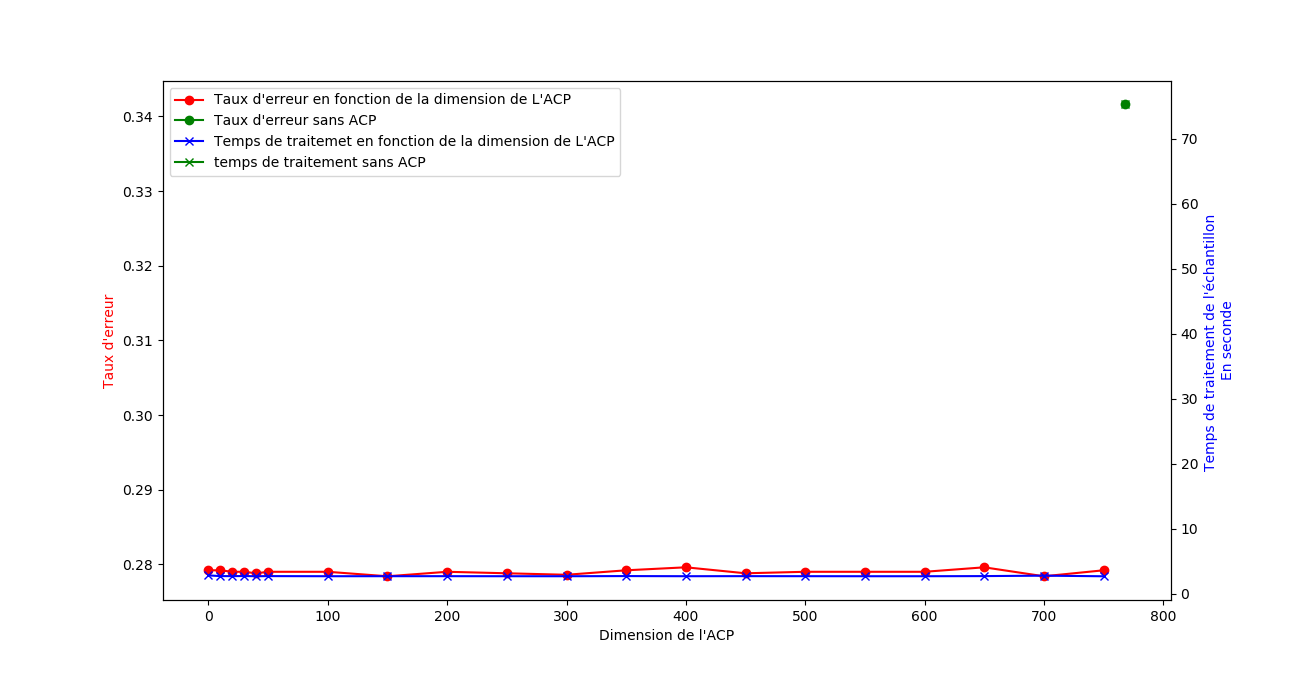
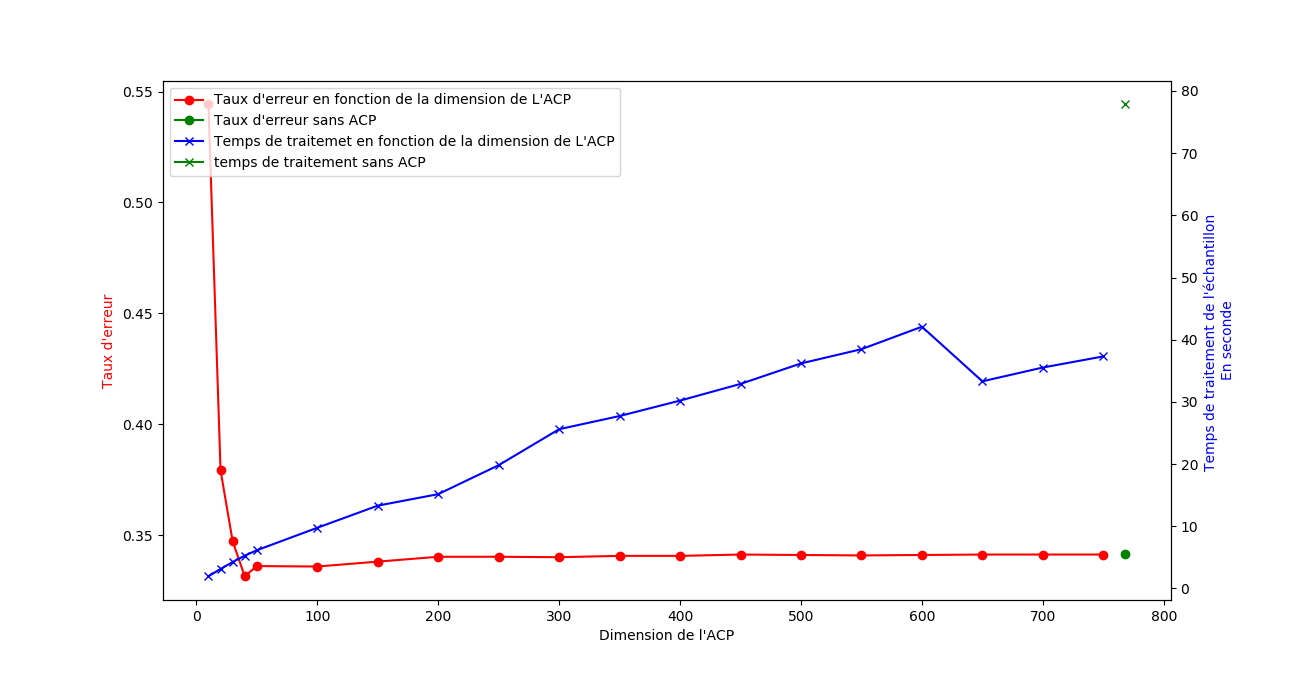
Correction question 3/2 + ajout conclusion et fichier test.npy

diff --git a/Sources/main.py b/Sources/main.py
@@ -5,6 +5,7 @@ from sklearn.decomposition import PCA
 from sklearn.svm import SVC
 from sklearn.neighbors import KNeighborsClassifier
 from sklearn import preprocessing
+from sklearn.metrics import confusion_matrix
 
 
 """ Question 1 """
@@ -142,22 +143,27 @@ def Question3_A(Xapp, Yapp, Xdev, Ydev):
 
     teList = []
     timeList = []
-    sizeList = [i for i in range(0,50,10)]+[i for i in range(50,Xapp.shape[1],50)]
+    sizeList = [i for i in range(40,50,10)]+[i for i in range(50,Xapp.shape[1],50)]
 
     for size in sizeList:
         start_time = time()
-        #Scaling des données pour le SVM
-        pca = PCA(50)
-        pca.fit(Xapp)
-        XappPCA = pca.transform(Xapp)
-        #Scaling des données pour le SVM
-        X = preprocessing.scale(pca.transform(Xdev))
-        Y = Ydev
         print("Taille de l'échantillon : ", X.shape[0])
         print("Classifieur Support Vector Machines, ACP de taille ",size)
 
+        pca = PCA(size)
+        pca.fit(Xapp)
+        print("ICI 1, ", time() - start_time)
+        #Scaling des données pour le SVM
+        XappPCA = preprocessing.scale(pca.transform(Xapp))        
+        print("ICI 2, ", time() - start_time)
+        #Scaling des données pour le SVM
+        X = preprocessing.scale(pca.transform(Xdev))
+        print("ICI 3, ", time() - start_time)
+        Y = Ydev
         clf = SVC(C=100000000,cache_size=4000)
-        clf.fit(preprocessing.scale(XappPCA), Yapp) 
+        print("ICI 4, ", time() - start_time)
+        clf.fit(XappPCA, Yapp)
+        print("ICI 5, ", time() - start_time)
 
         print("START")
         erreur = 0
@@ -224,12 +230,12 @@ def Question3_B(Xapp, Yapp, Xdev, Ydev):
 
     teList = []
     timeList = []
-    sizeList = [i for i in range(0,50,10)]+[i for i in range(50,Xapp.shape[1],50)]
+    sizeList = [i for i in range(10,50,10)]+[i for i in range(50,Xapp.shape[1],50)]
 
     for size in sizeList:
         start_time = time()
 
-        pca = PCA(50)
+        pca = PCA(size)
         pca.fit(Xapp)        
         XappPCA = pca.transform(Xapp)
 
@@ -239,7 +245,7 @@ def Question3_B(Xapp, Yapp, Xdev, Ydev):
         print("Classifieur plus proches voisins, ACP de taille ",size)
 
         neigh = KNeighborsClassifier(n_jobs=-1)
-        neigh.fit(X,Y) 
+        neigh.fit(XappPCA,Yapp) 
 
         print("START")
         erreur = 0
@@ -278,7 +284,7 @@ def Question3_B(Xapp, Yapp, Xdev, Ydev):
     fig.savefig("question3_B.png")
 
 
-""" Main :P """
+##################################### Main :P #####################################
 
 Xapp = np.load('../data/trn_img.npy')
 Yapp = np.load('../data/trn_lbl.npy')
@@ -290,5 +296,54 @@ Xtest = np.load('../data/tst_img.npy')
 
 #Question1_2(Xapp, Yapp, Xdev, Ydev)
 #Question3_A(Xapp, Yapp, Xdev, Ydev)
-Question3_B(Xapp, Yapp, Xdev, Ydev)
+#Question3_B(Xapp, Yapp, Xdev, Ydev)
 
+
+### Conclusion ###
+
+
+start_time = time()
+print("Classifieur Bayésien ACP de taille 50 sur le jeux de développement")
+pca = PCA(50)
+pca.fit(Xapp)
+XappPCA = pca.transform(Xapp)
+X = pca.transform(Xdev)
+Y = Ydev
+appArrayPCA = Apprentissage(XappPCA,Yapp)
+
+print("START")
+erreur = 0
+result = []
+
+for i in range(0,X.shape[0]):
+    result.append(BayesEvaluation(X[i], appArrayPCA))
+    if(result[i] != Y[i]):
+        erreur+=1
+ti = (time() - start_time)
+print("--- " , ti," seconds ---")
+print("END")
+te = (erreur/X.shape[0])
+print("Taux d'erreur : ", te, "\n")
+
+print("Matrice de confusion du meilleur système : \n")
+print(confusion_matrix(Y, result),"\n\n")
+
+
+print("Classifieur Bayésien ACP de taille 50 sur le jeux de test")
+start_time = time()
+pca = PCA(50)
+pca.fit(Xapp)
+XappPCA = pca.transform(Xapp)
+X = pca.transform(Xtest)
+appArrayPCA = Apprentissage(XappPCA,Yapp)
+
+print("START")
+result = []
+
+for i in range(0,X.shape[0]):
+    result.append(BayesEvaluation(X[i], appArrayPCA))
+
+ti = (time() - start_time)
+print("--- " , ti," seconds ---")
+np.save("test.npy",result)
+print("END")
